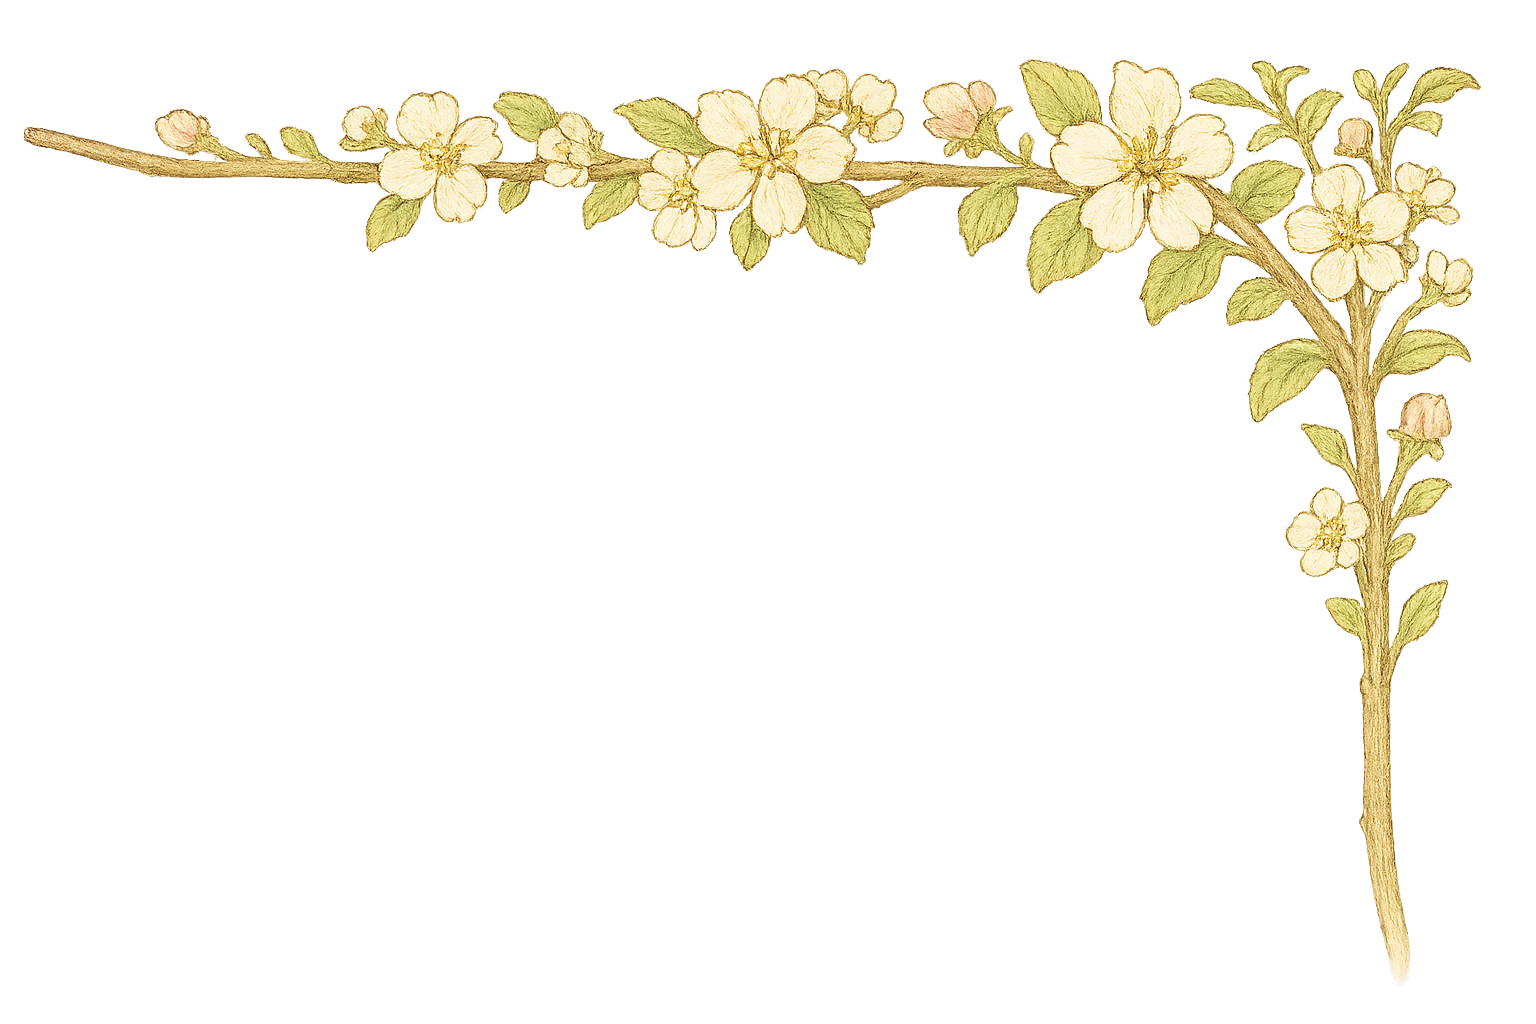
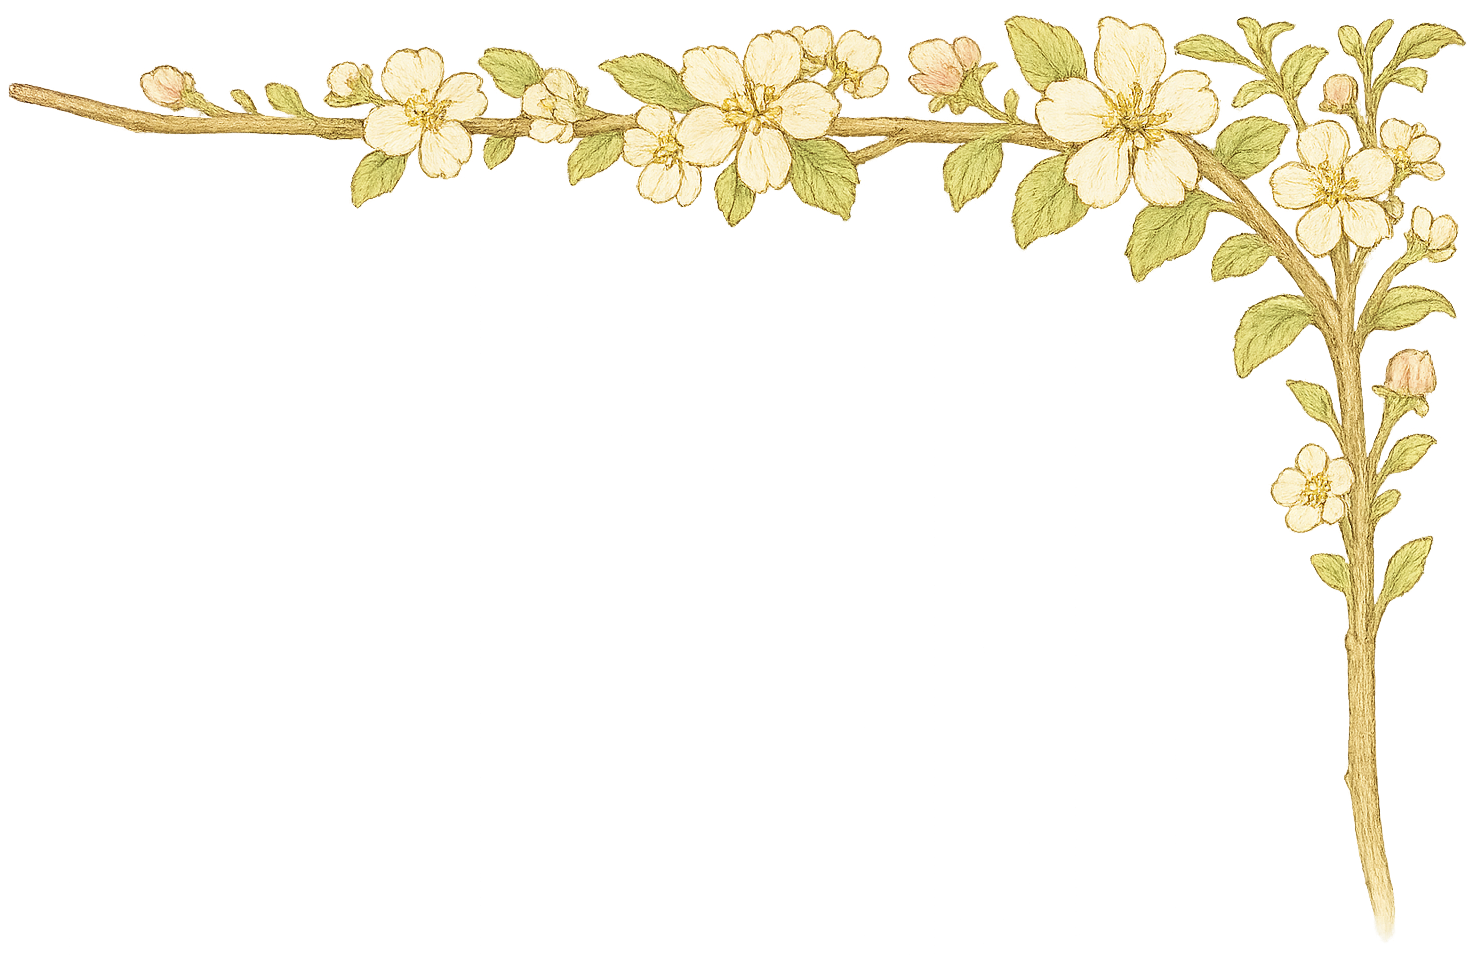
borders

Changed region(s): [[0.0, 0.0, 1.0, 0.9687]]

diff --git a/frontend_ruminate/src/components/landing/LandingPage.tsx b/frontend_ruminate/src/components/landing/LandingPage.tsx
@@ -86,55 +86,77 @@ export default function LandingPage() {
 
   // Render the Landing Page content if no file is ready for viewing
   return (
-    <div className="relative flex flex-col items-center justify-center min-h-screen bg-paper-50 p-4 md:p-8 overflow-hidden">
-      {/* Warm paper background with texture */}
-      <div className="absolute inset-0 bg-paper-texture opacity-30"></div>
-      <div className="absolute inset-0 bg-[url('/paper_texture_background.jpg')] bg-repeat opacity-10"></div>
+    <div className="relative flex flex-col items-center justify-center min-h-screen overflow-hidden">
+      {/* Old paper background */}
+      <div className="absolute inset-0 bg-[url('/old_paper_background.jpg')] bg-cover bg-center"></div>
       
-      {/* Top right corner illustration - fixed to viewport */}
-      <div className="fixed top-0 right-0 w-48 h-48 md:w-64 md:h-64 pointer-events-none z-20">
+      {/* Top left corner border decoration */}
+      <div className="fixed top-0 left-0 w-1/2 h-auto pointer-events-none z-20">
         <Image 
-          src="/apple_blossom_top_right_corner.png" 
+          src="/top left border.png" 
           alt="" 
-          width={300} 
-          height={300}
-          className="object-contain"
+          width={800} 
+          height={800}
+          className="object-contain w-full"
           priority
         />
       </div>
       
-      {/* Main container without border, larger content */}
-      <div className="relative z-10 w-full max-w-5xl mx-auto my-8 p-6 md:p-16">
-        {/* Content area */}
-        <div className="flex flex-col md:flex-row items-center md:items-start justify-between gap-8 md:gap-12">
-          <div className="flex flex-col items-center text-center md:text-left md:items-start space-y-10 w-full md:w-7/12">
-            {/* Logo and Tagline */}
-            <Header />
-            
-            {/* Upload Section */}
-            <UploadSection
-              currentObjective={currentObjective}
-              setCurrentObjective={setCurrentObjective}
-              isProcessing={isProcessing}
-              progress={progress}
-              error={error}
-              uploadFile={uploadFile}
-              handleSelectDocument={handleSelectDocument}
-              showObjectiveSelector={false}
-            />
-          </div>
-          
-          {/* Dog illustration - larger */}
-          <div className="hidden md:block w-5/12 mt-4">
-            <Image 
-              src="/dog_with_a_blog.png" 
-              alt="Illustrated dog reading with a magnifying glass"
-              width={450} 
-              height={450}
-              className="object-contain scale-x-[-1]"
-              priority
-            />
-          </div>
+      {/* Bottom left border decoration */}
+      <div className="fixed bottom-0 left-0 w-1/2 h-auto pointer-events-none z-20 flex items-end">
+        <Image 
+          src="/bottom left border.png" 
+          alt="" 
+          width={800} 
+          height={800}
+          className="object-contain w-full"
+          priority
+        />
+      </div>
+      
+      {/* Top right corner illustration - fixed to viewport */}
+      <div className="fixed top-0 right-0 w-1/2 h-auto pointer-events-none z-20">
+        <Image 
+          src="/apple_blossom_top_right_corner.png" 
+          alt="" 
+          width={800} 
+          height={800}
+          className="object-contain w-full"
+          priority
+        />
+      </div>
+      
+      {/* Main container with centered content */}
+      <div className="relative z-10 w-full max-w-6xl mx-auto my-8 p-6 md:p-16 flex flex-col items-center justify-center">
+        {/* Centered title and tagline */}
+        <div className="text-center mb-16">
+          <Header />
+        </div>
+
+        {/* Dog illustration - repositioned to be next to header */}
+        <div className="absolute right-0 top-0 md:top-[-20px] w-40 md:w-96 opacity-100 hidden md:block">
+          <Image 
+            src="/reading_dog.png" 
+            alt="Illustrated dog reading with a magnifying glass"
+            width={500} 
+            height={500}
+            className="object-contain scale-x-[-1]"
+            priority
+          />
+        </div>
+        
+        {/* Upload Section - centered */}
+        <div className="w-full max-w-md">
+          <UploadSection
+            currentObjective={currentObjective}
+            setCurrentObjective={setCurrentObjective}
+            isProcessing={isProcessing}
+            progress={progress}
+            error={error}
+            uploadFile={uploadFile}
+            handleSelectDocument={handleSelectDocument}
+            showObjectiveSelector={false}
+          />
         </div>
       </div>
     </div>

diff --git a/frontend_ruminate/src/components/landing/UploadSection.tsx b/frontend_ruminate/src/components/landing/UploadSection.tsx
@@ -43,7 +43,7 @@ export default function UploadSection({
       initial={{ opacity: 0, y: 20 }}
       animate={{ opacity: 1, y: 0 }}
       transition={{ duration: 0.8, delay: 0.2 }}
-      className="space-y-12 w-full mx-auto"
+      className="space-y-12 w-full mx-auto text-center"
     >
       {/* Objective Selector with elegant styling - only show if requested */}
       {showObjectiveSelector && (
@@ -79,7 +79,7 @@ export default function UploadSection({
           onClick={() => fileInputRef.current?.click()}
           className={`
             px-10 py-5 rounded-md
-            bg-paper-100 text-ink-800 border border-paper-400
+            bg-paper-100/90 text-ink-800 border border-paper-400
             shadow-paper
             transition-all duration-300
             flex items-center gap-4 group
@@ -103,7 +103,7 @@ export default function UploadSection({
             <path d="M3 15v4a2 2 0 002 2h14a2 2 0 002-2v-4" />
           </svg>
           
-          <span className="font-serif text-xl">
+          <span className="font-serif text-xl font-medium">
             {isProcessing ? "Processing..." : "Upload PDF"}
           </span>
         </motion.button>

diff --git a/frontend_ruminate/src/components/landing/TexturedHeading.tsx b/frontend_ruminate/src/components/landing/TexturedHeading.tsx
@@ -8,16 +8,22 @@ interface TexturedHeadingProps {
 export default function TexturedHeading({ children, className = '' }: TexturedHeadingProps) {
   return (
     <h1 
-      className={`font-noto-serif text-6xl md:text-7xl font-medium tracking-tight textured-heading ${className}`}
+      className={`font-noto-serif text-7xl md:text-8xl font-bold tracking-tight textured-heading text-center inline-block ${className}`}
       style={{
         backgroundImage: 'url("/brown_noise.jpg")',
         backgroundRepeat: 'repeat',
         backgroundSize: '300px',
         WebkitBackgroundClip: 'text',
         backgroundClip: 'text',
-        color: 'transparent',
+        color: '#544a3d', /* Fallback color */
         WebkitTextFillColor: 'transparent',
-        textShadow: '0 0.5px 0.5px rgba(0,0,0,0.1)'
+        textShadow: `
+          0 0 1px rgba(77, 58, 42, 0.4),
+          0 0 2px rgba(77, 58, 42, 0.3),
+          0 0 3px rgba(77, 58, 42, 0.2),
+          0 0 4px rgba(77, 58, 42, 0.1),
+          0 1px 3px rgba(77, 58, 42, 0.3)
+        `
       }}
     >
       {children}

diff --git a/frontend_ruminate/src/components/landing/Header.tsx b/frontend_ruminate/src/components/landing/Header.tsx
@@ -7,13 +7,13 @@ export default function Header() {
       initial={{ opacity: 0, y: 20 }}
       animate={{ opacity: 1, y: 0 }}
       transition={{ duration: 0.8 }}
-      className="space-y-6"
+      className="space-y-10 text-center"
     >
-      <TexturedHeading>
+      <TexturedHeading className="mx-auto">
         Ruminate
       </TexturedHeading>
       
-      <p className="font-serif text-2xl md:text-3xl text-ink-700 italic font-light">
+      <p className="font-serif text-3xl md:text-4xl text-ink-800 italic font-bold">
         The AI agent that reads between the lines
       </p>
     </motion.div>

diff --git a/frontend_ruminate/src/components/viewer/DocumentSelector.tsx b/frontend_ruminate/src/components/viewer/DocumentSelector.tsx
@@ -84,7 +84,7 @@ export default function DocumentSelector({ onSelectDocument }: DocumentSelectorP
   return (
     <div className="relative inline-block w-full">
       <select 
-        className="block appearance-none w-full bg-paper-100 border border-paper-400 
+        className="block appearance-none w-full bg-paper-100/90 border border-paper-400 
                   px-5 py-4 pr-10 rounded-md shadow-paper leading-relaxed 
                   focus:outline-none focus:ring-1 focus:ring-terracotta-400 
                   text-ink-800 font-serif text-lg transition-all duration-300"
